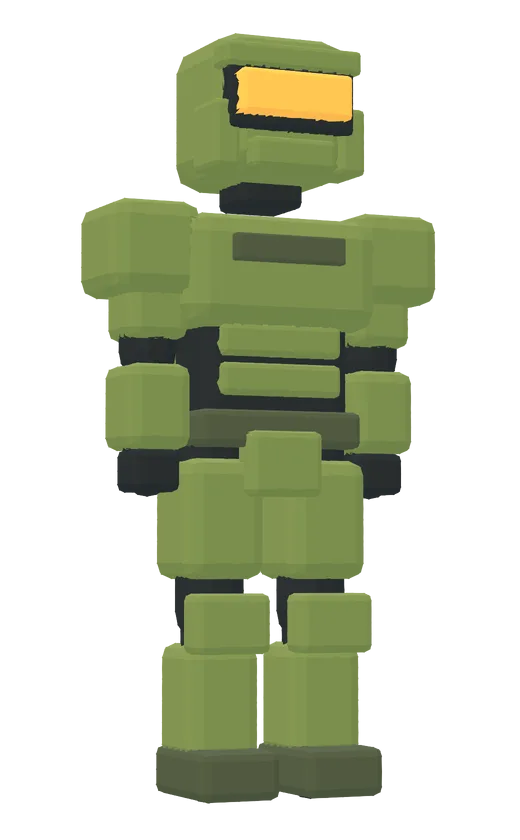
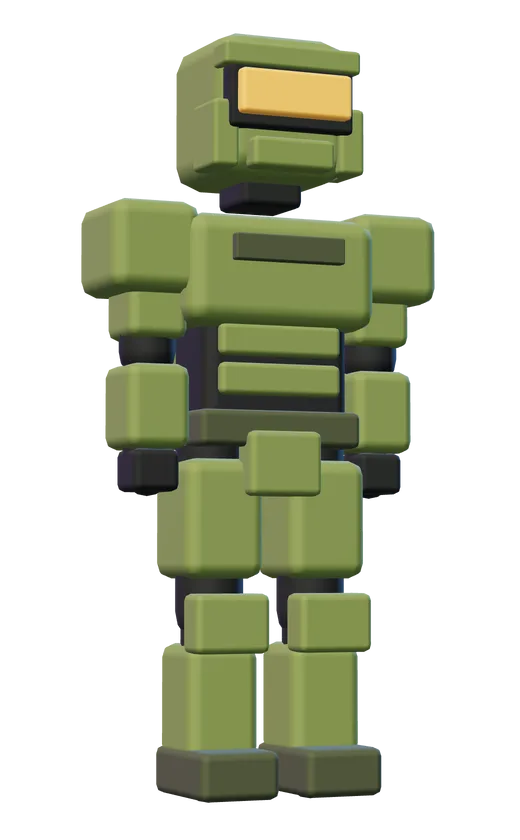
Bake the paper-bag loading portrait and retire the cached stickman asset

diff --git a/src/ui/menu.js b/src/ui/menu.js
@@ -33,7 +33,8 @@ import { previewCharacter, nextYouZoom } from '../pov/character.js';
 //   progress(step, text)  a boot step began (STEPS keys; 'cold': the shaders are compiling
 //                         cold; 'match' with app.js's line for it)
 const THUMB = (key) => `/maps/${key}.webp`;
-const YOU = (character) => character === 'real' ? '/you.webp' : `/you-${character}.webp`;
+// 'stick' is the saved paper-bag choice; a new URL cannot reuse the old stickman still.
+const YOU = (character) => character === 'real' ? '/you.webp' : character === 'stick' ? '/you-bag.webp' : `/you-${character}.webp`;
 // the live player's canvas (ui/youWorker.js), sized once for the tallest he is shown (menu.css .mm-you)
 const YOU_MAX_H = 560;                 // CSS px
 const YOU_ASPECT = 260 / 420;          // the still's width over its height (tools/you-portrait.mjs SHOWN_W, SHOWN_H)
